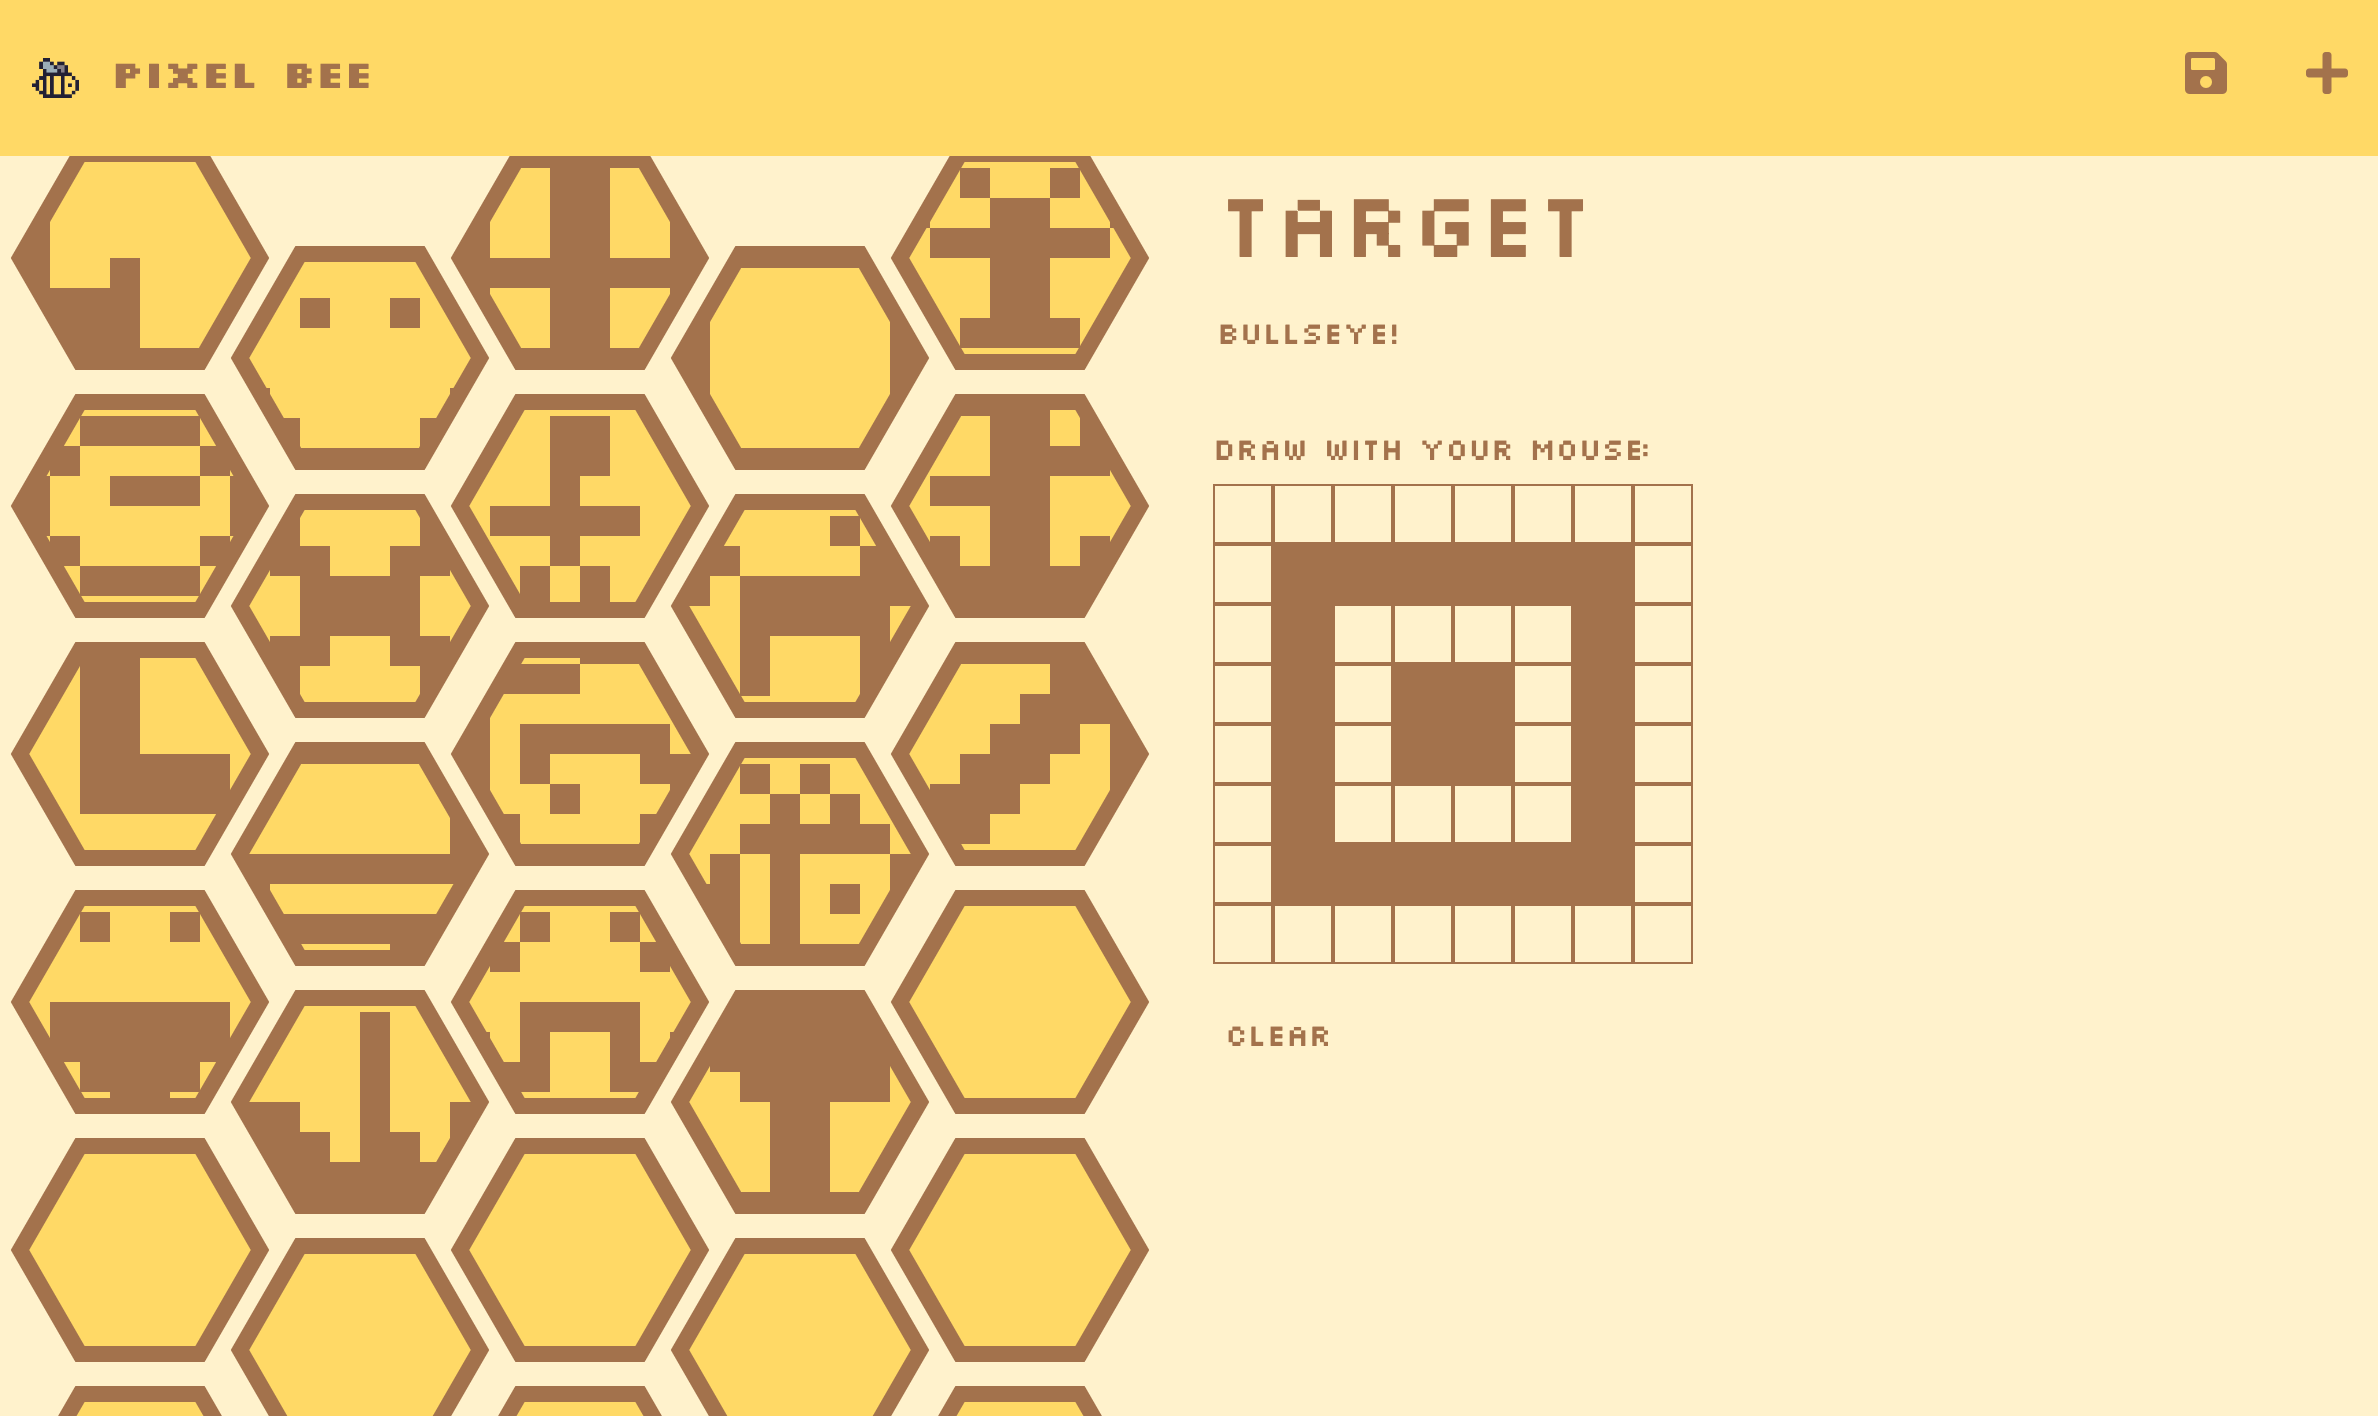
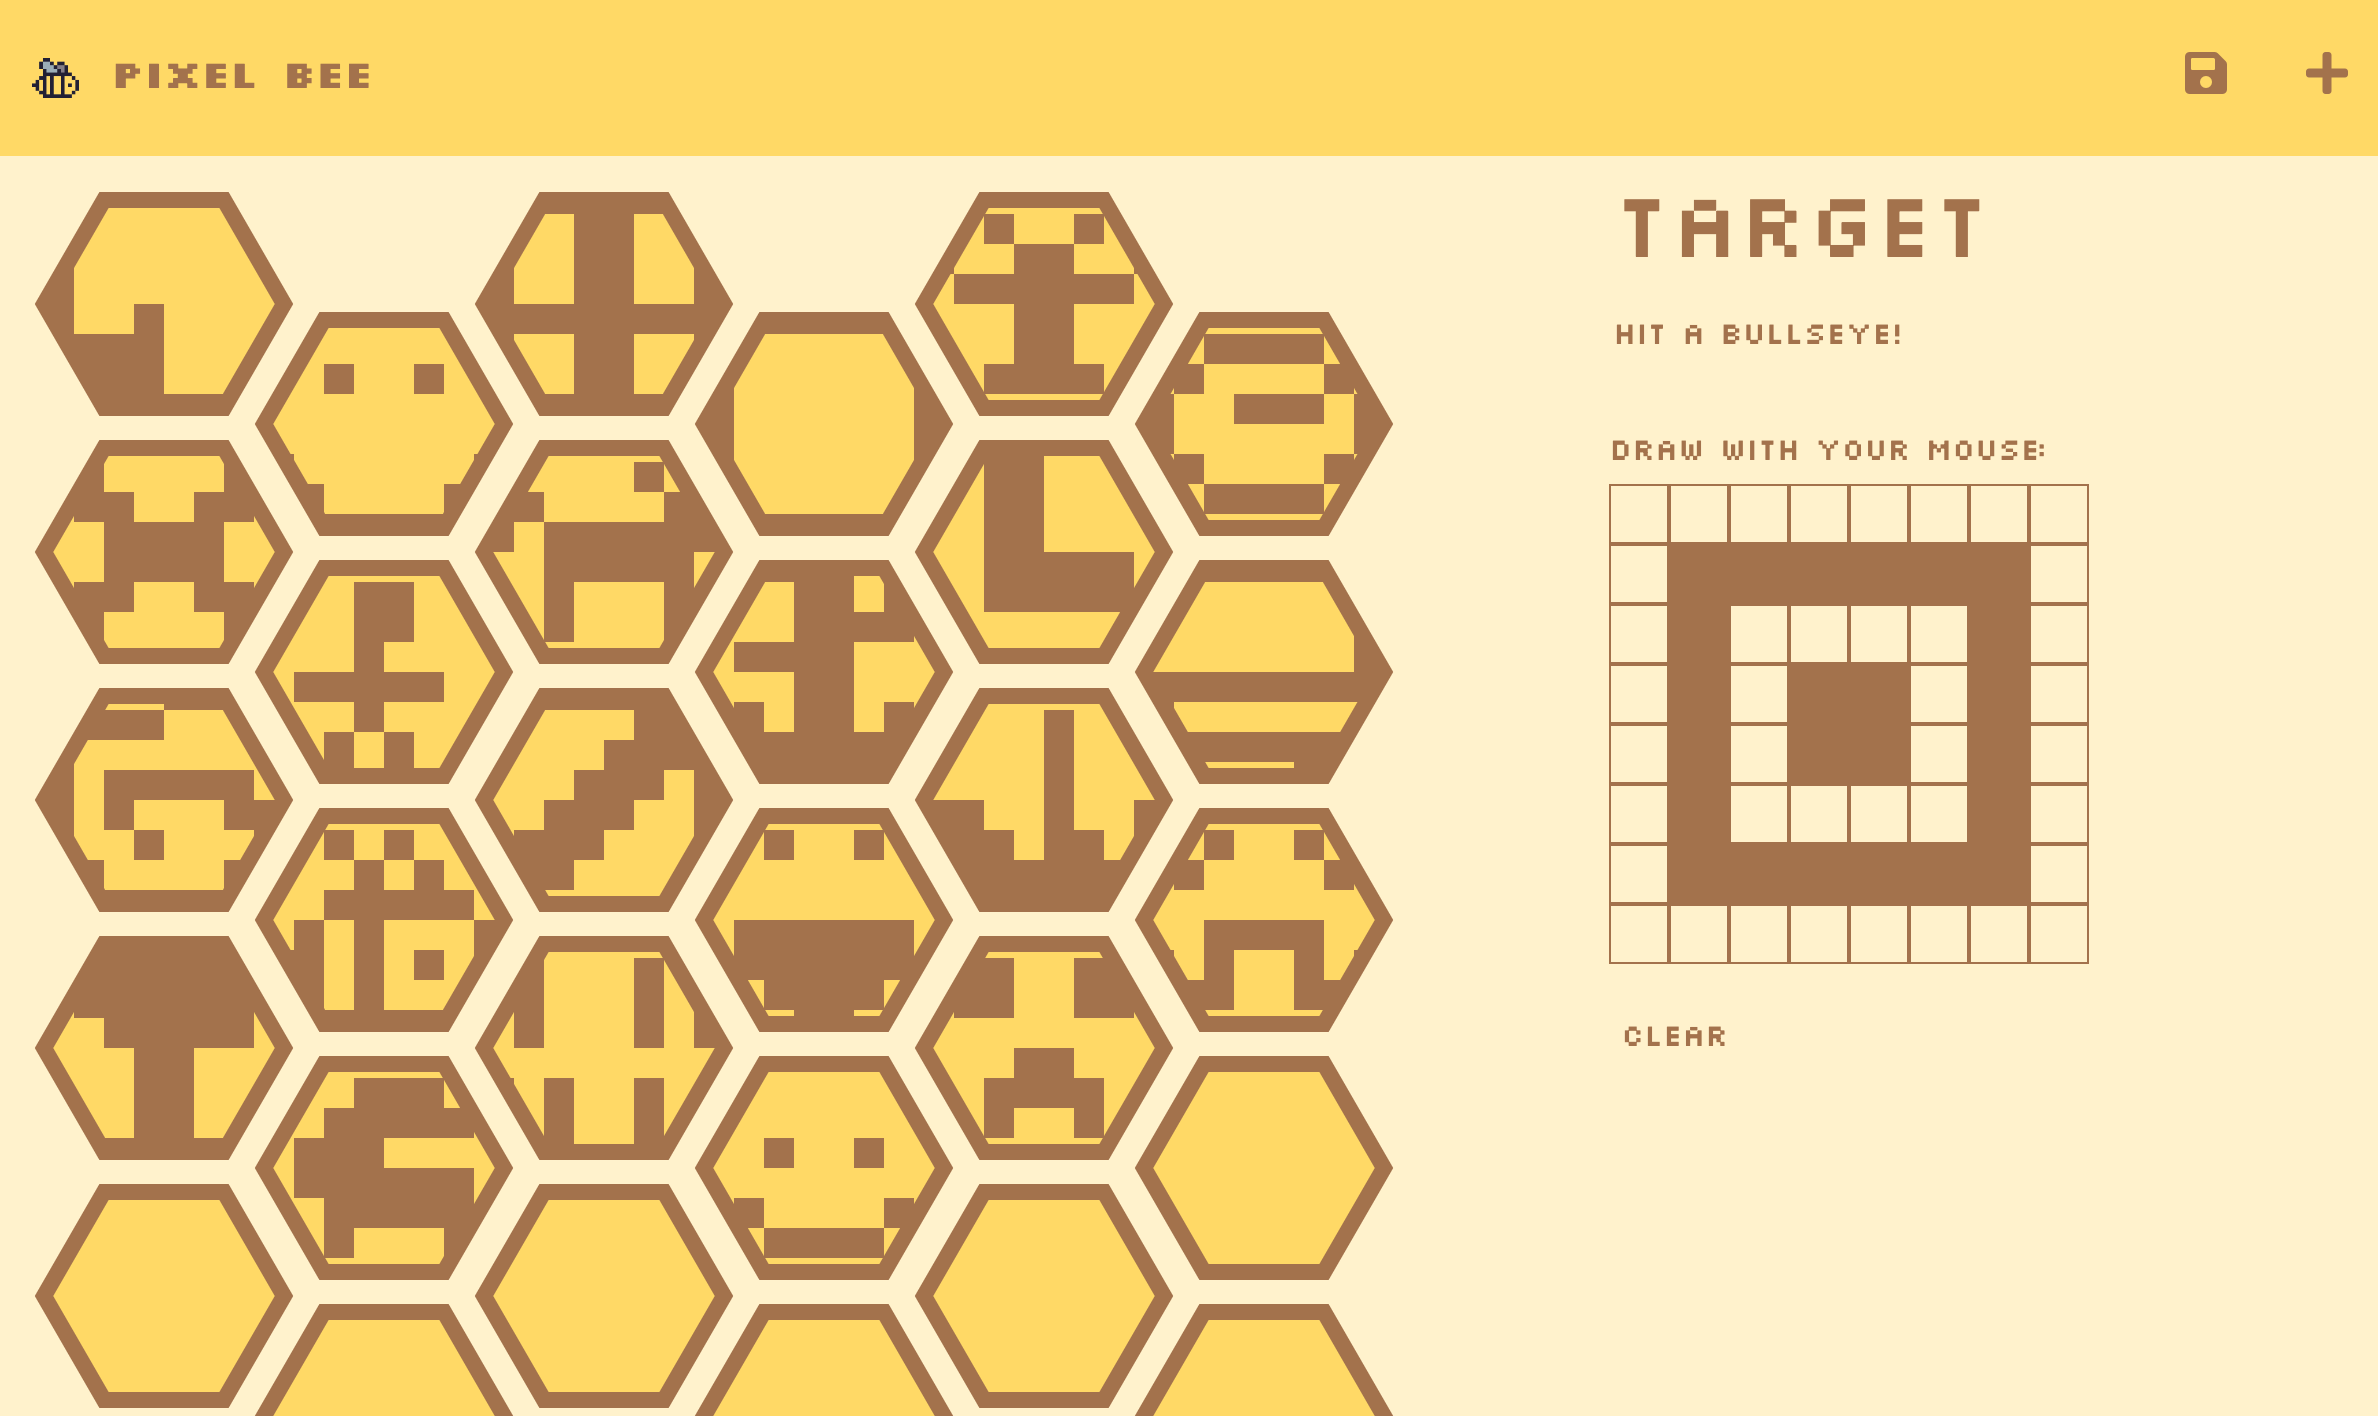
swapped README preview images

diff --git a/public/assets/js/index.js b/public/assets/js/index.js
@@ -349,7 +349,6 @@ function handleHexResize(containerSelector, data, contain=true) {
   const hexColWidth = 120;
   const columns = contain ? Math.max(1, Math.floor(containerWidth / hexColWidth)) : (Math.ceil(containerWidth / hexColWidth) + 2);
   const rows = Math.max(Math.ceil((data.length + 1) / columns), 8);
-  console.log(columns, previousNumColumns);
   if (columns === previousNumColumns) return;
   previousNumColumns = columns;
   generateHexGrid(columns, rows, data);

diff --git a/public/assets/css/styles.css b/public/assets/css/styles.css
@@ -201,7 +201,7 @@ a[role=button]:hover {
 .hex-grid-absolute {
   position: absolute;
   left: 0;
-  top: 30px;
+  top: 15px;
   z-index: -1;
 }
 
